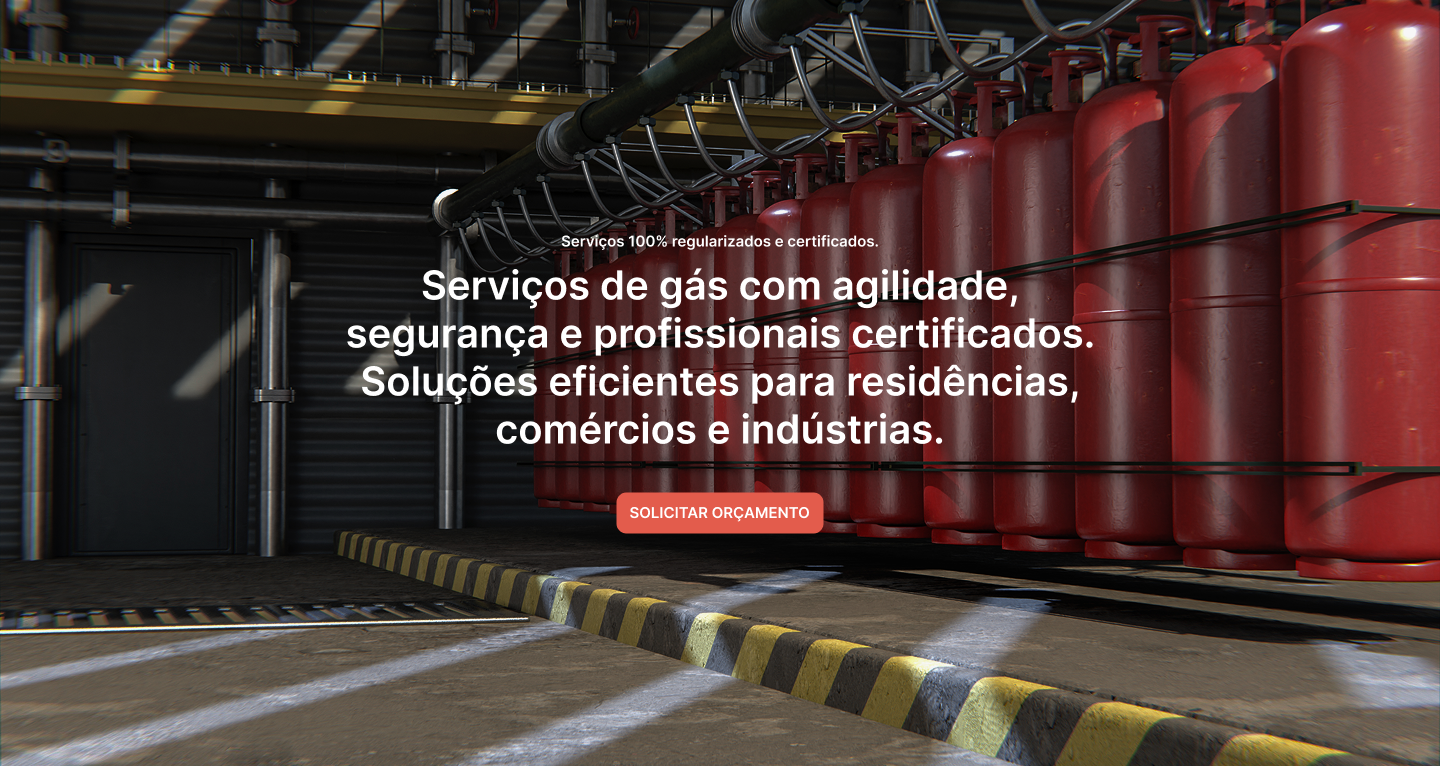
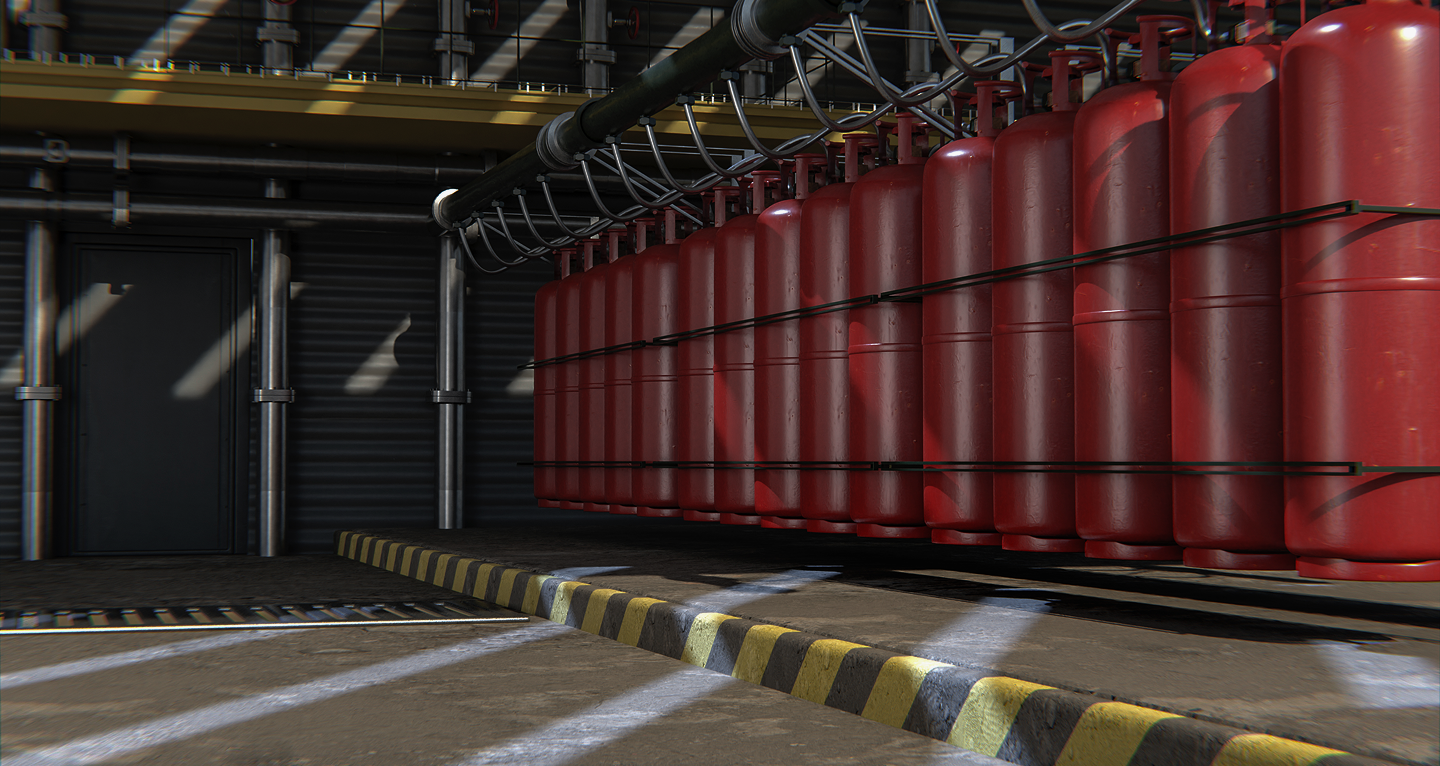
feat: about section done

Changed region(s): [[0.2188, 0.3603, 0.75, 0.6005], [0.4062, 0.6305, 0.5938, 0.7206], [0.375, 0.3003, 0.625, 0.3303]]

diff --git a/src/App.tsx b/src/App.tsx
@@ -1,36 +1,57 @@
 import { Button } from "primereact/button";
 import { Route, Routes } from "react-router-dom";
 import Home from "./pages/Home";
+import { useEffect, useState } from "react";
+import { Sidebar } from "primereact/sidebar";
 
 export default function App() {
+  const [menuOpen] = useState(false);
+  const [visibleRight, setVisibleRight] = useState(false);
+  const [scrolling, setScrolling] = useState(false);
+
+  useEffect(() => {
+    const handleScroll = (): void => {
+      const scrollTop = window.scrollY;
+      const isScrolling = scrollTop > 0;
+      setScrolling(isScrolling);
+    };
+
+    window.addEventListener("scroll", handleScroll);
+    return (): void => window.removeEventListener("scroll", handleScroll);
+  }, []);
+
   return (
     <>
-      <header className="flex justify-around items-center gap-4 !p-4">
+      <header
+        className={`flex justify-around items-center gap-4 !p-4 fixed w-full z-50 ${
+          scrolling || menuOpen ? "scrolled" : ""
+        }`}
+      >
         <div className="flex">
           <img src="logo.png" alt="Logo" className="" />
         </div>
         <nav className="flex justify-center items-center gap-4">
           <a
             href="#"
-            className="uppercase font-semibold text-gray-800 hover:text-blue-600 transition-colors duration-300"
+            className="uppercase font-semibold text-white hover:text-blue-600 transition-colors duration-300"
           >
             Página Inicial
           </a>
           <a
             href="#sobre"
-            className="uppercase font-semibold text-gray-800 hover:text-blue-600 transition-colors duration-300"
+            className="uppercase font-semibold text-white hover:text-blue-600 transition-colors duration-300"
           >
             Sobre nós
           </a>
           <a
             href="#servicos"
-            className="uppercase font-semibold text-gray-800 hover:text-blue-600 transition-colors duration-300"
+            className="uppercase font-semibold text-white hover:text-blue-600 transition-colors duration-300"
           >
             Serviços
           </a>
           <a
             href="#contatos"
-            className="uppercase font-semibold text-gray-800 hover:text-blue-600 transition-colors duration-300"
+            className="uppercase font-semibold text-white hover:text-blue-600 transition-colors duration-300"
           >
             Contatos
           </a>
@@ -39,6 +60,48 @@ export default function App() {
           Solicitar Orçamento
         </Button>
       </header>
+
+      <Sidebar
+        visible={visibleRight}
+        position="right"
+        onHide={() => setVisibleRight(false)}
+      >
+        <div className="flex flex-col justify-center items-start gap-3 !p-8">
+          <a href="#" className="flex w-40">
+            <img src="Logo-sidebar.png" alt="" className="w-full" />
+          </a>
+          <a
+            href="#"
+            className="text-[#1e1e1e] text-xl !pb-2 !pt-4 border-b-2 border-transparent hover:font-bold hover:border-[#1e1e1e] transition-all"
+          >
+            Página Inicial
+          </a>
+          <a
+            href="#solucoes"
+            className="text-[#1e1e1e] text-xl !pb-2 border-b-2 border-transparent hover:font-bold hover:border-[#1e1e1e] transition-all"
+          >
+            Soluções
+          </a>
+          <a
+            href="#sobre"
+            className="text-[#1e1e1e] text-xl !pb-2 border-b-2 border-transparent hover:font-bold hover:border-[#1e1e1e] transition-all"
+          >
+            Sobre Nós
+          </a>
+          <a
+            href="#portfolio"
+            className="text-[#1e1e1e] text-xl !pb-2 border-b-2 border-transparent hover:font-bold hover:border-[#1e1e1e] transition-all"
+          >
+            Portfólio
+          </a>
+          <a
+            href="#contatos"
+            className="text-[#1e1e1e] text-xl !pb-2 border-b-2 border-transparent hover:font-bold hover:border-[#1e1e1e] transition-all"
+          >
+            Contatos
+          </a>
+        </div>
+      </Sidebar>
 
       <Routes>
         <Route path="/" element={<Home />} key="home" />
@@ -91,9 +154,7 @@ export default function App() {
           </div>
         </div>
         <div className="flex flex-col justify-center items-start gap-4">
-          <h2 className="font-bold">
-            Serviços
-          </h2>
+          <h2 className="font-bold">Serviços</h2>
           <div className="flex flex-col justify-center items-start gap-4">
             <a
               href="#"
@@ -122,13 +183,13 @@ export default function App() {
           </div>
         </div>
         <div className="flex flex-col justify-center items-start gap-4">
-          <h2 className="font-bold">
-            Encontre-nos
-          </h2>
+          <h2 className="font-bold">Encontre-nos</h2>
           <div className="flex flex-col justify-center items-start gap-4">
             <div className="flex justify-center items-center gap-4">
               <i className="pi pi-pin"></i>
-              <span>Rua (nome da rua) - (número), (cidade - estado) - (cep)</span>
+              <span>
+                Rua (nome da rua) - (número), (cidade - estado) - (cep)
+              </span>
             </div>
           </div>
         </div>

diff --git a/src/pages/Home.tsx b/src/pages/Home.tsx
@@ -1,7 +1,66 @@
+import { Button } from "primereact/button";
+
 export default function Home() {
-    return (  
-        <>
-            <h1>Home</h1>
-        </>
-    );
+  return (
+    <>
+      <section className="flex flex-col justify-center items-center gap-5 !p-4 banner">
+        <span className="text-xl font-semibold text-white text-center">
+          Serviços 100% regularizados e certificados.
+        </span>
+        <h2 className="text-5xl font-bold text-white text-center w-full max-w-4xl">
+          Serviços de gás com agilidade, segurança e profissionais certificados.
+          Soluções eficientes para residências, comércios e indústrias.
+        </h2>
+        <Button className="!bg-[#E35C4C] !p-2 !border-none text-white !font-semibold !rounded-xl hover:!bg-[#b35e54] active:!bg-[#d16053] transition-all">
+          Solicitar Orçamento
+        </Button>
+      </section>
+      <div className="flex justify-center items-center gap-20 !p-4 bg-[#3593D5]">
+        <div className="flex flex-col justify-center items-center gap-4 !p-4">
+          <h2 className="text-5xl font-bold text-white">100%</h2>
+          <span className="text-xl font-semibold text-white">
+            Clientes Satisfeitos
+          </span>
+        </div>
+        <div className="flex flex-col justify-center items-center gap-4 !p-4">
+          <h2 className="text-5xl font-bold text-white">+200</h2>
+          <span className="text-xl font-semibold text-white">
+            Clientes Atendidos
+          </span>
+        </div>
+        <div className="flex flex-col justify-center items-center gap-4 !p-4">
+          <h2 className="text-5xl font-bold text-white">5</h2>
+          <span className="text-xl font-semibold text-white">
+            Serviços de Gás
+          </span>
+        </div>
+      </div>
+      <section className="flex justify-center items-center gap-4 !p-4 !py-20 bg-white">
+        <div className="flex flex-col justify-center items-start gap-4">
+          <h2 className="font-bold text-4xl">SOBRE NÓS</h2>
+          <p className="w-full max-w-3xl">
+            Com mais de 10 anos de experiência no mercado, a São Paulo Gás é
+            especializada na detecção de vazamentos e reparos em tubulações,
+            oferecendo soluções seguras, rápidas e eficientes para redes de gás.
+            <br />
+            <br />
+            Contamos com uma equipe altamente capacitada, comprometida com a
+            qualidade e em constante evolução, sempre em busca das melhores
+            tecnologias para garantir um atendimento de excelência.
+          </p>
+          <div className="flex justify-start items-center gap-4">
+            <Button className="!bg-[#E35C4C] !p-2 !border-none text-white !font-semibold !rounded-xl hover:!bg-[#b35e54] active:!bg-[#d16053] transition-all">
+              Solicitar Orçamento
+            </Button>
+            <Button className="!bg-transparent !p-2 !border-[#E35C4C] !text-[#1e1e1e] !font-semibold !rounded-xl hover:!bg-[#b35e54] active:!bg-[#d16053] transition-all"> 
+              Ver Serviços
+            </Button>
+          </div>
+        </div>
+        <div className="flex justify-center items-center w-full max-w-lg">
+          <img src="about-image.png" alt="" className="" />
+        </div>
+      </section>
+    </>
+  );
 }

diff --git a/src/App.css b/src/App.css
@@ -1,4 +1,4 @@
-@import url('https://fonts.googleapis.com/css2?family=Inter:ital,opsz,wght@0,14..32,100..900;1,14..32,100..900&display=swap');
+@import url("https://fonts.googleapis.com/css2?family=Inter:ital,opsz,wght@0,14..32,100..900;1,14..32,100..900&display=swap");
 @import "tailwindcss";
 
 * {
@@ -9,6 +9,52 @@
 }
 
 body {
-  font-family: 'Inter', sans-serif;
+  font-family: "Inter", sans-serif;
   background-color: #f2f2f2;
+}
+
+::-webkit-scrollbar {
+  width: 5px;
+  height: 5px;
+}
+
+::-webkit-scrollbar-track {
+  background: #efefef;
+}
+
+::-webkit-scrollbar-thumb {
+  background: #002f9e;
+  border-radius: 10px;
+}
+
+::-webkit-scrollbar-thumb:hover {
+  background: #0a1a2e;
+}
+
+header {
+  transition: all 0.3s ease-in-out;
+}
+
+.scrolled {
+  background-color: #ffffffe6;
+  box-shadow: 0 2px 10px rgba(0, 0, 0, 0.1);
+  backdrop-filter: blur(10px);
+
+  nav {
+
+    a {
+      color: #1e1e1e;
+    }
+
+    background-color: transparent;
+    transition: all 0.5s ease-in-out;
+  }
+}
+
+.banner {
+  background-image: url("/Banner.png");
+  background-size: cover;
+  background-position: center;
+  background-repeat: no-repeat;
+  height: 100vh;
 }

diff --git a/index.html b/index.html
@@ -2,7 +2,7 @@
 <html lang="en">
   <head>
     <meta charset="UTF-8" />
-    <link rel="icon" type="image/svg+xml" href="/vite.svg" />
+    <link rel="icon" type="image/svg+xml" href="/logo.png" />
     <meta name="viewport" content="width=device-width, initial-scale=1.0" />
     <title>São Paulo Gás - Serviços de Gás</title>
   </head>
